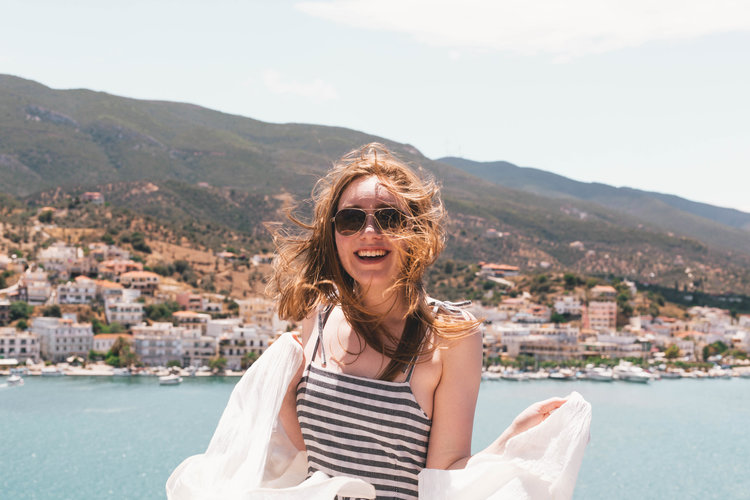
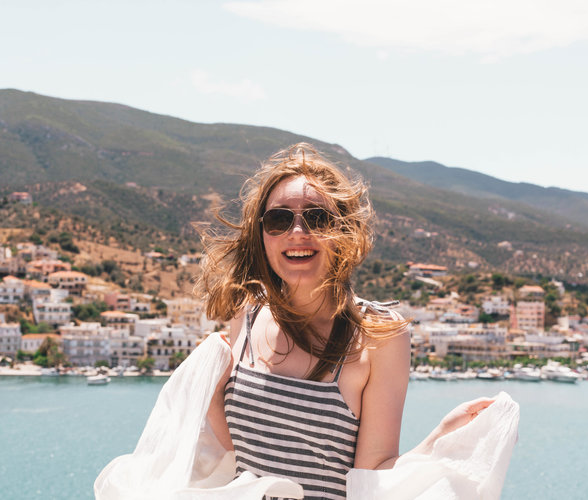
Edited images and finalized About page

diff --git a/screens/SecondLevel/AboutScreen.js b/screens/SecondLevel/AboutScreen.js
@@ -3,6 +3,7 @@
 /* eslint-disable react/destructuring-assignment */
 /* eslint-disable global-require */
 /* eslint-disable react/prop-types */
+/* eslint-disable object-curly-newline */
 import React from 'react';
 import {
   StyleSheet, Text, View, Image, TouchableOpacity,
@@ -29,6 +30,7 @@ const styles = StyleSheet.create({
   },
   image: {
     alignItems: 'center',
+    backgroundColor: '#F8F8F8',
   },
   divContainer: {
     marginTop: 0,
@@ -49,13 +51,18 @@ const styles = StyleSheet.create({
     backgroundColor: '#fff',
     alignItems: 'center',
     justifyContent: 'center',
-    textAlign: 'center',
   },
   header2: {
     fontFamily: 'MyriadPro-Bold',
     fontSize: 20,
     color: 'black',
     textAlign: 'center',
+  },
+  header3: {
+    fontFamily: 'MyriadPro-Light',
+    fontSize: 16,
+    color: 'black',
+    textAlign: 'left',
   },
   avatarContainer: {
     flex: 1,
@@ -125,43 +132,14 @@ class AboutScreen extends React.Component {
     return (
       <View style={styles.container}>
         <ScrollView>
-          <View style={styles.image}>
-            <Image
-              style={{ marginTop: 30, width: 140, height: 140 }}
-              source={require('../../assets/images/WPI_logo.png')}
-            />
-          </View>
           <View style={styles.paragraph}>
-            <Text style={styles.paraText}>
-              The idea for this app was conceived by Sydney Messey, Dennis Leary, and Anika Stundtner
-            </Text>
-            <Divider style={{ backgroundColor: 'white', marginVertical: 0 }} />
-            <Text style={styles.paraText}>
-              through the Stanford University Innovation Fellowship.
-            </Text>
-            <Divider style={{ backgroundColor: 'white', marginVertical: 20 }} />
-            <Text style={styles.paraText}>
-              This app was developed by
-            </Text>
-            <Divider style={{ backgroundColor: 'white', marginVertical: 0 }} />
-            <Text style={styles.paraText}>
-              Manjusha Chava, Elaine Chen, Isabelle Cordova,
-            </Text>
-            <Divider style={{ backgroundColor: 'white', marginVertical: 0 }} />
-            <Text style={styles.paraText}>
-              and Lucas Varella with the help of WPI Web Tech
-            </Text>
-            <Text style={styles.paraText}>
-              executives John Dyer, Chris Mercer, and Jake Scheide.
-            </Text>
-            <Divider style={{ backgroundColor: 'white', marginVertical: 20 }} />
-            <Text style={{ fontSize: 13, fontFamily: 'MyriadPro-Light', textAlign: 'center' }}>
-              Funding for the development of this app was provided by the KEEN Grant.
-            </Text>
-
-            <Divider style={{ backgroundColor: 'white', marginVertical: 20 }} />
+            <Divider style={{ backgroundColor: 'white', marginVertical: 2 }} />
             <Text style={styles.header2}>
               Meet the Team!
+            </Text>
+            <Divider style={{ backgroundColor: 'white', marginVertical: 15 }} />
+            <Text style={styles.header3}>
+              University Innovation Fellows
             </Text>
           </View>
 
@@ -209,6 +187,12 @@ class AboutScreen extends React.Component {
             </TouchableOpacity>
           </View>
 
+          <View style={styles.paragraph}>
+            <Divider style={{ backgroundColor: 'white', marginVertical: 5 }} />
+            <Text style={styles.header3}>
+              Developers
+            </Text>
+          </View>
           <View style={styles.avatarContainer}>
             <TouchableOpacity>
               <View style={styles.buttonContainer}>
@@ -253,7 +237,7 @@ class AboutScreen extends React.Component {
             </TouchableOpacity>
           </View>
 
-          <View style={styles.avatarContainer}>
+          <View style={styles.lastAvatar}>
             <TouchableOpacity>
               <View style={styles.buttonContainer}>
                 <Avatar
@@ -265,6 +249,28 @@ class AboutScreen extends React.Component {
                 />
                 <Divider style={{ height: 10, backgroundColor: 'white' }} />
                 <Text style={styles.avatarText}>Lucas Varella</Text>
+              </View>
+            </TouchableOpacity>
+          </View>
+
+          <View style={styles.paragraph}>
+            <Divider style={{ backgroundColor: 'white', marginVertical: 5 }} />
+            <Text style={styles.header3}>
+              WebTech Executives
+            </Text>
+          </View>
+          <View style={styles.avatarContainer}>
+            <TouchableOpacity>
+              <View style={styles.buttonContainer}>
+                <Avatar
+                  source={require('../../assets/teamPics/JohnDyer.jpg')}
+                  size="large"
+                  rounded
+                  title="JD"
+                  activeOpacity={1}
+                />
+                <Divider style={{ height: 10, backgroundColor: 'white' }} />
+                <Text style={styles.avatarText}>John Dyer</Text>
               </View>
             </TouchableOpacity>
 
@@ -281,30 +287,6 @@ class AboutScreen extends React.Component {
                 <Text style={styles.avatarText}>Chris Mercer</Text>
               </View>
             </TouchableOpacity>
-
-            <TouchableOpacity>
-              <View style={styles.buttonContainer}>
-                <Avatar
-                  source={require('../../assets/teamPics/JohnDyer.jpg')}
-                  size="large"
-                  rounded
-                  title="JD"
-                  activeOpacity={1}
-                />
-                <Divider style={{ height: 10, backgroundColor: 'white' }} />
-                <Text style={styles.avatarText}>John Dyer</Text>
-              </View>
-            </TouchableOpacity>
-          </View>
-
-          <View>
-            <Divider style={{ backgroundColor: 'white', marginVertical: 10 }} />
-            <Text style={styles.header2}>
-              Our Alumni!
-            </Text>
-          </View>
-
-          <View style={styles.lastAvatar}>
             <TouchableOpacity>
               <View style={styles.buttonContainer}>
                 <Avatar
@@ -318,7 +300,18 @@ class AboutScreen extends React.Component {
                 <Text style={styles.avatarText}>Jake Scheide</Text>
               </View>
             </TouchableOpacity>
-            <Divider style={{ backgroundColor: 'white', marginVertical: 10 }} />
+          </View>
+          <Divider style={{ backgroundColor: 'white', marginVertical: 15 }} />
+          <View style={styles.image}>
+            <Image
+              style={{ marginTop: 30, width: 140, height: 140 }}
+              source={require('../../assets/images/WPI_logo.png')}
+            />
+            <Divider style={{ backgroundColor: '#F8F8F8', marginVertical: 10 }} />
+            <Text style={{ fontSize: 14, fontFamily: 'MyriadPro-Light', textAlign: 'center', marginLeft: 10, marginRight: 10 }}>
+              Funding for the development of this app was provided by the KEEN Grant.
+            </Text>
+            <Divider style={{ backgroundColor: '#F8F8F8', marginVertical: 25 }} />
           </View>
         </ScrollView>
       </View>

diff --git a/App.js b/App.js
@@ -15,6 +15,7 @@ import { createMaterialBottomTabNavigator } from 'react-navigation-material-bott
 import Icon from 'react-native-vector-icons/Ionicons';
 import { Font, AppLoading } from 'expo';
 import { Root } from 'native-base';
+import { MaterialIcons } from '@expo/vector-icons';
 
 
 // Zeroth Level
@@ -88,12 +89,6 @@ const WelcomeStackNavigator = new createStackNavigator({
       header: null,
     },
   },
-  AboutScreen: { // 13
-    screen: AboutScreen,
-    navigationOptions: {
-      title: 'About',
-    },
-  },
 });
 
 const MoreStackNavigator = new createStackNavigator({
@@ -105,6 +100,17 @@ const MoreStackNavigator = new createStackNavigator({
         fontFamily: 'MinionPro-BoldDisp',
         fontSize: 30,
       },
+      headerStyle: {
+        backgroundColor: '#AC2B37',
+        marginTop: 5,
+      },
+      headerTintColor: 'white',
+    },
+  },
+  AboutScreen: {
+    screen: AboutScreen,
+    navigationOptions: {
+      title: 'About',
       headerStyle: {
         backgroundColor: '#AC2B37',
         marginTop: 5,
